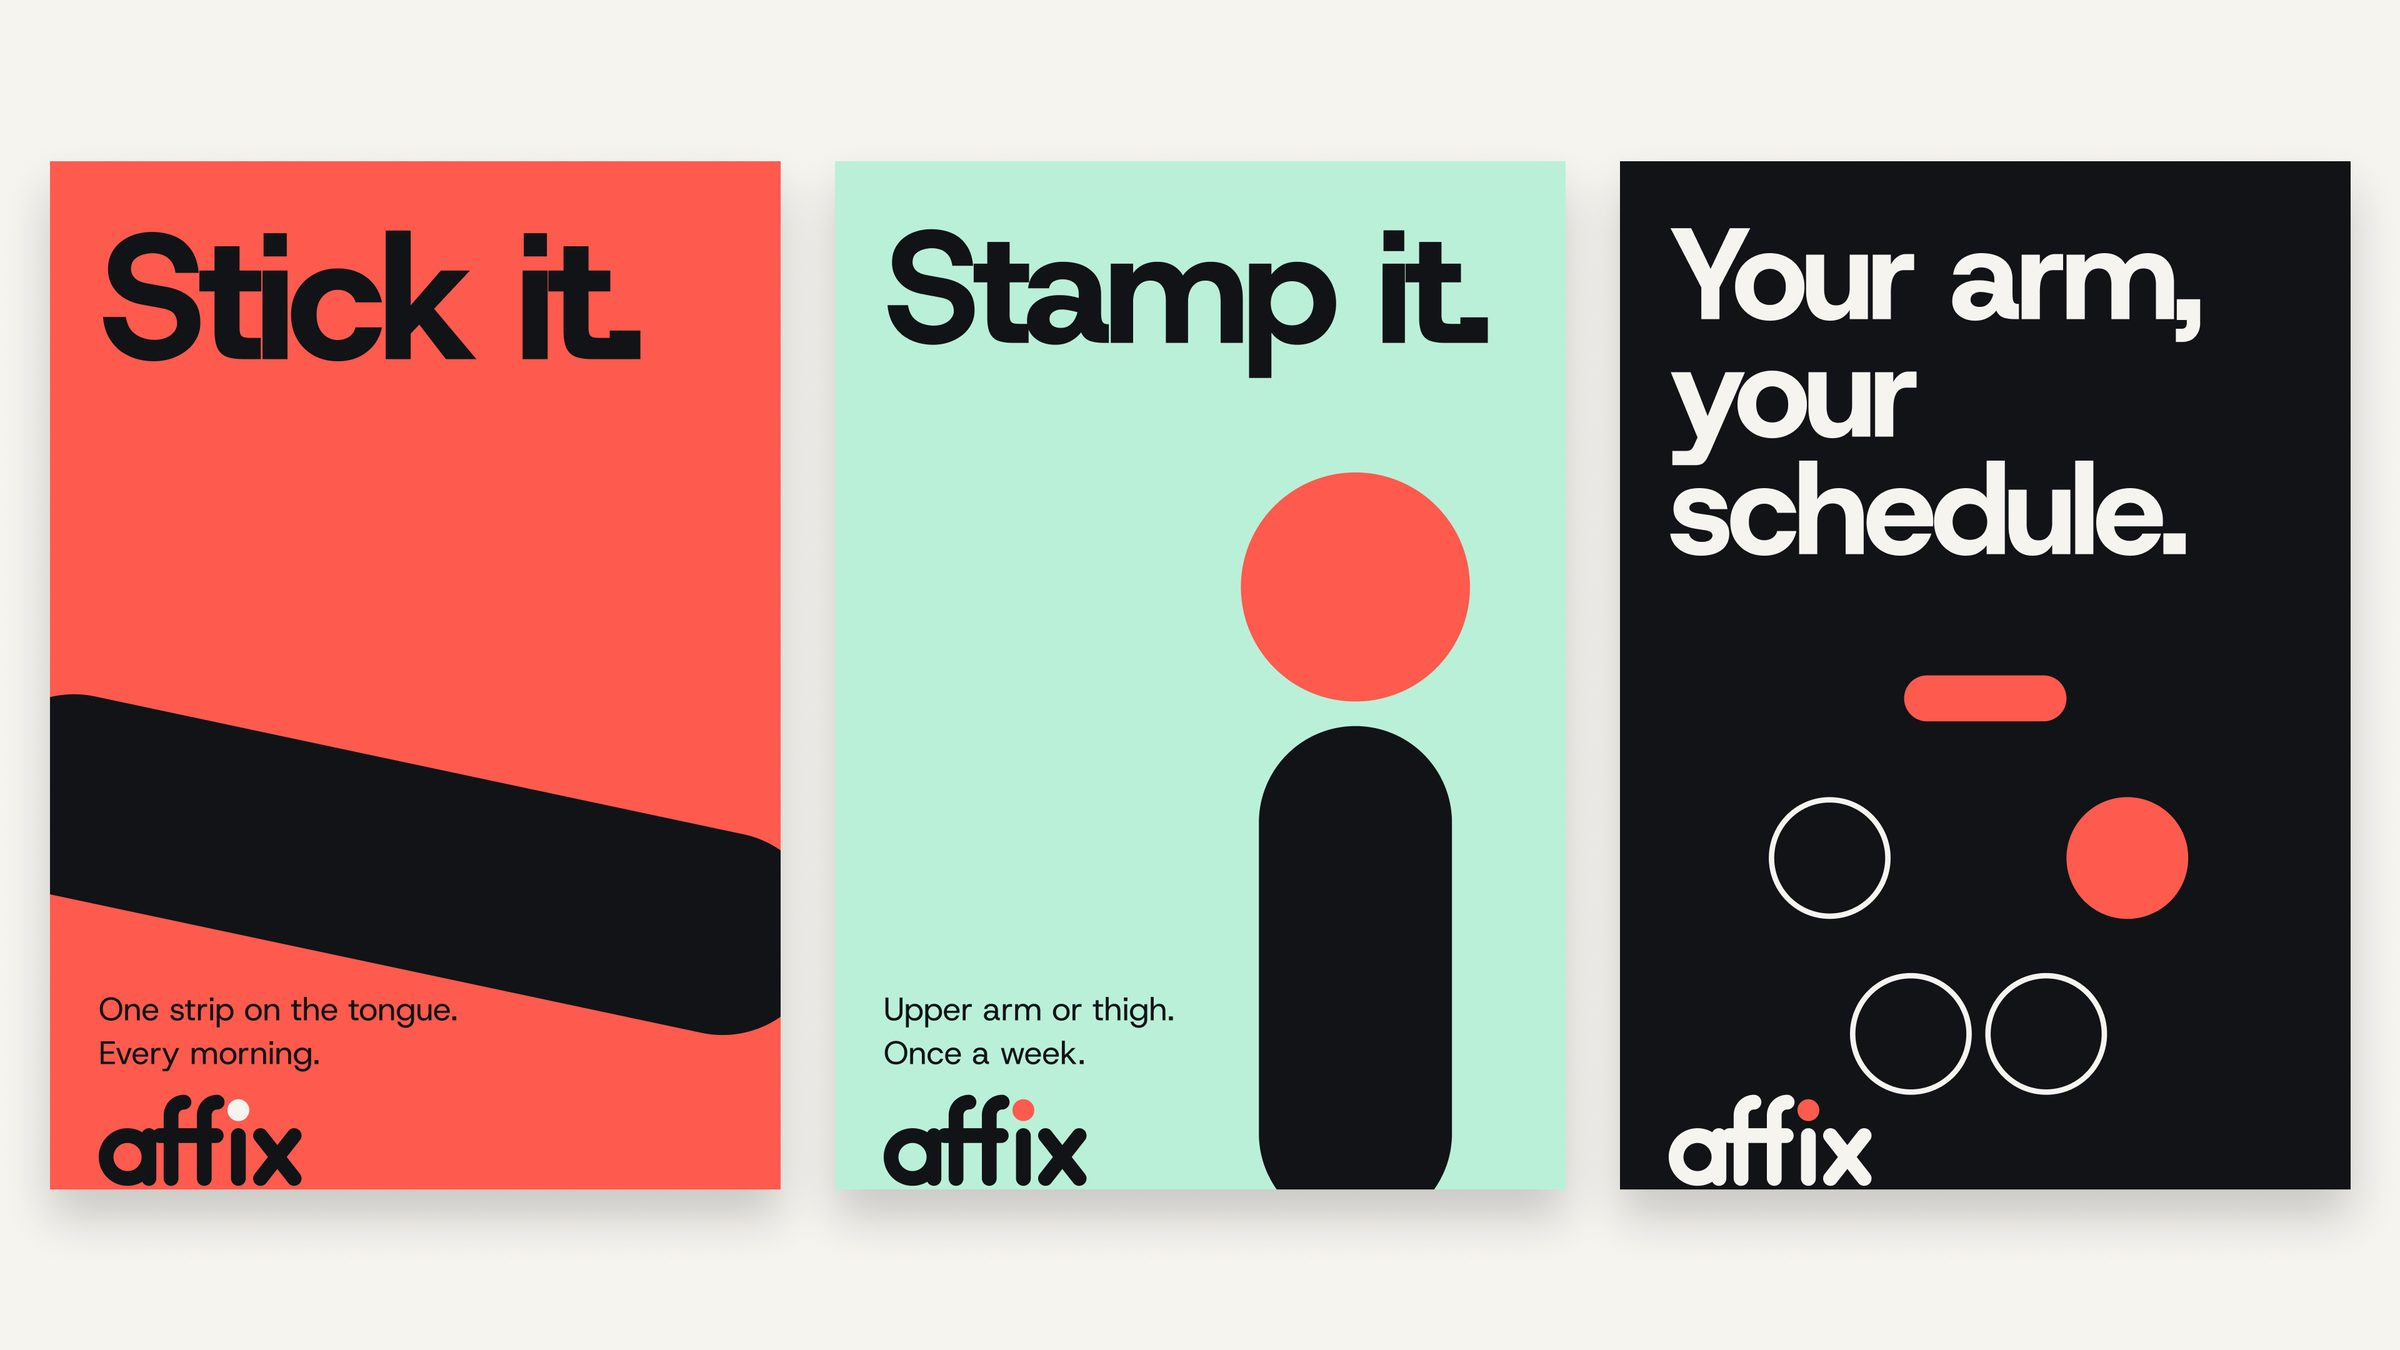
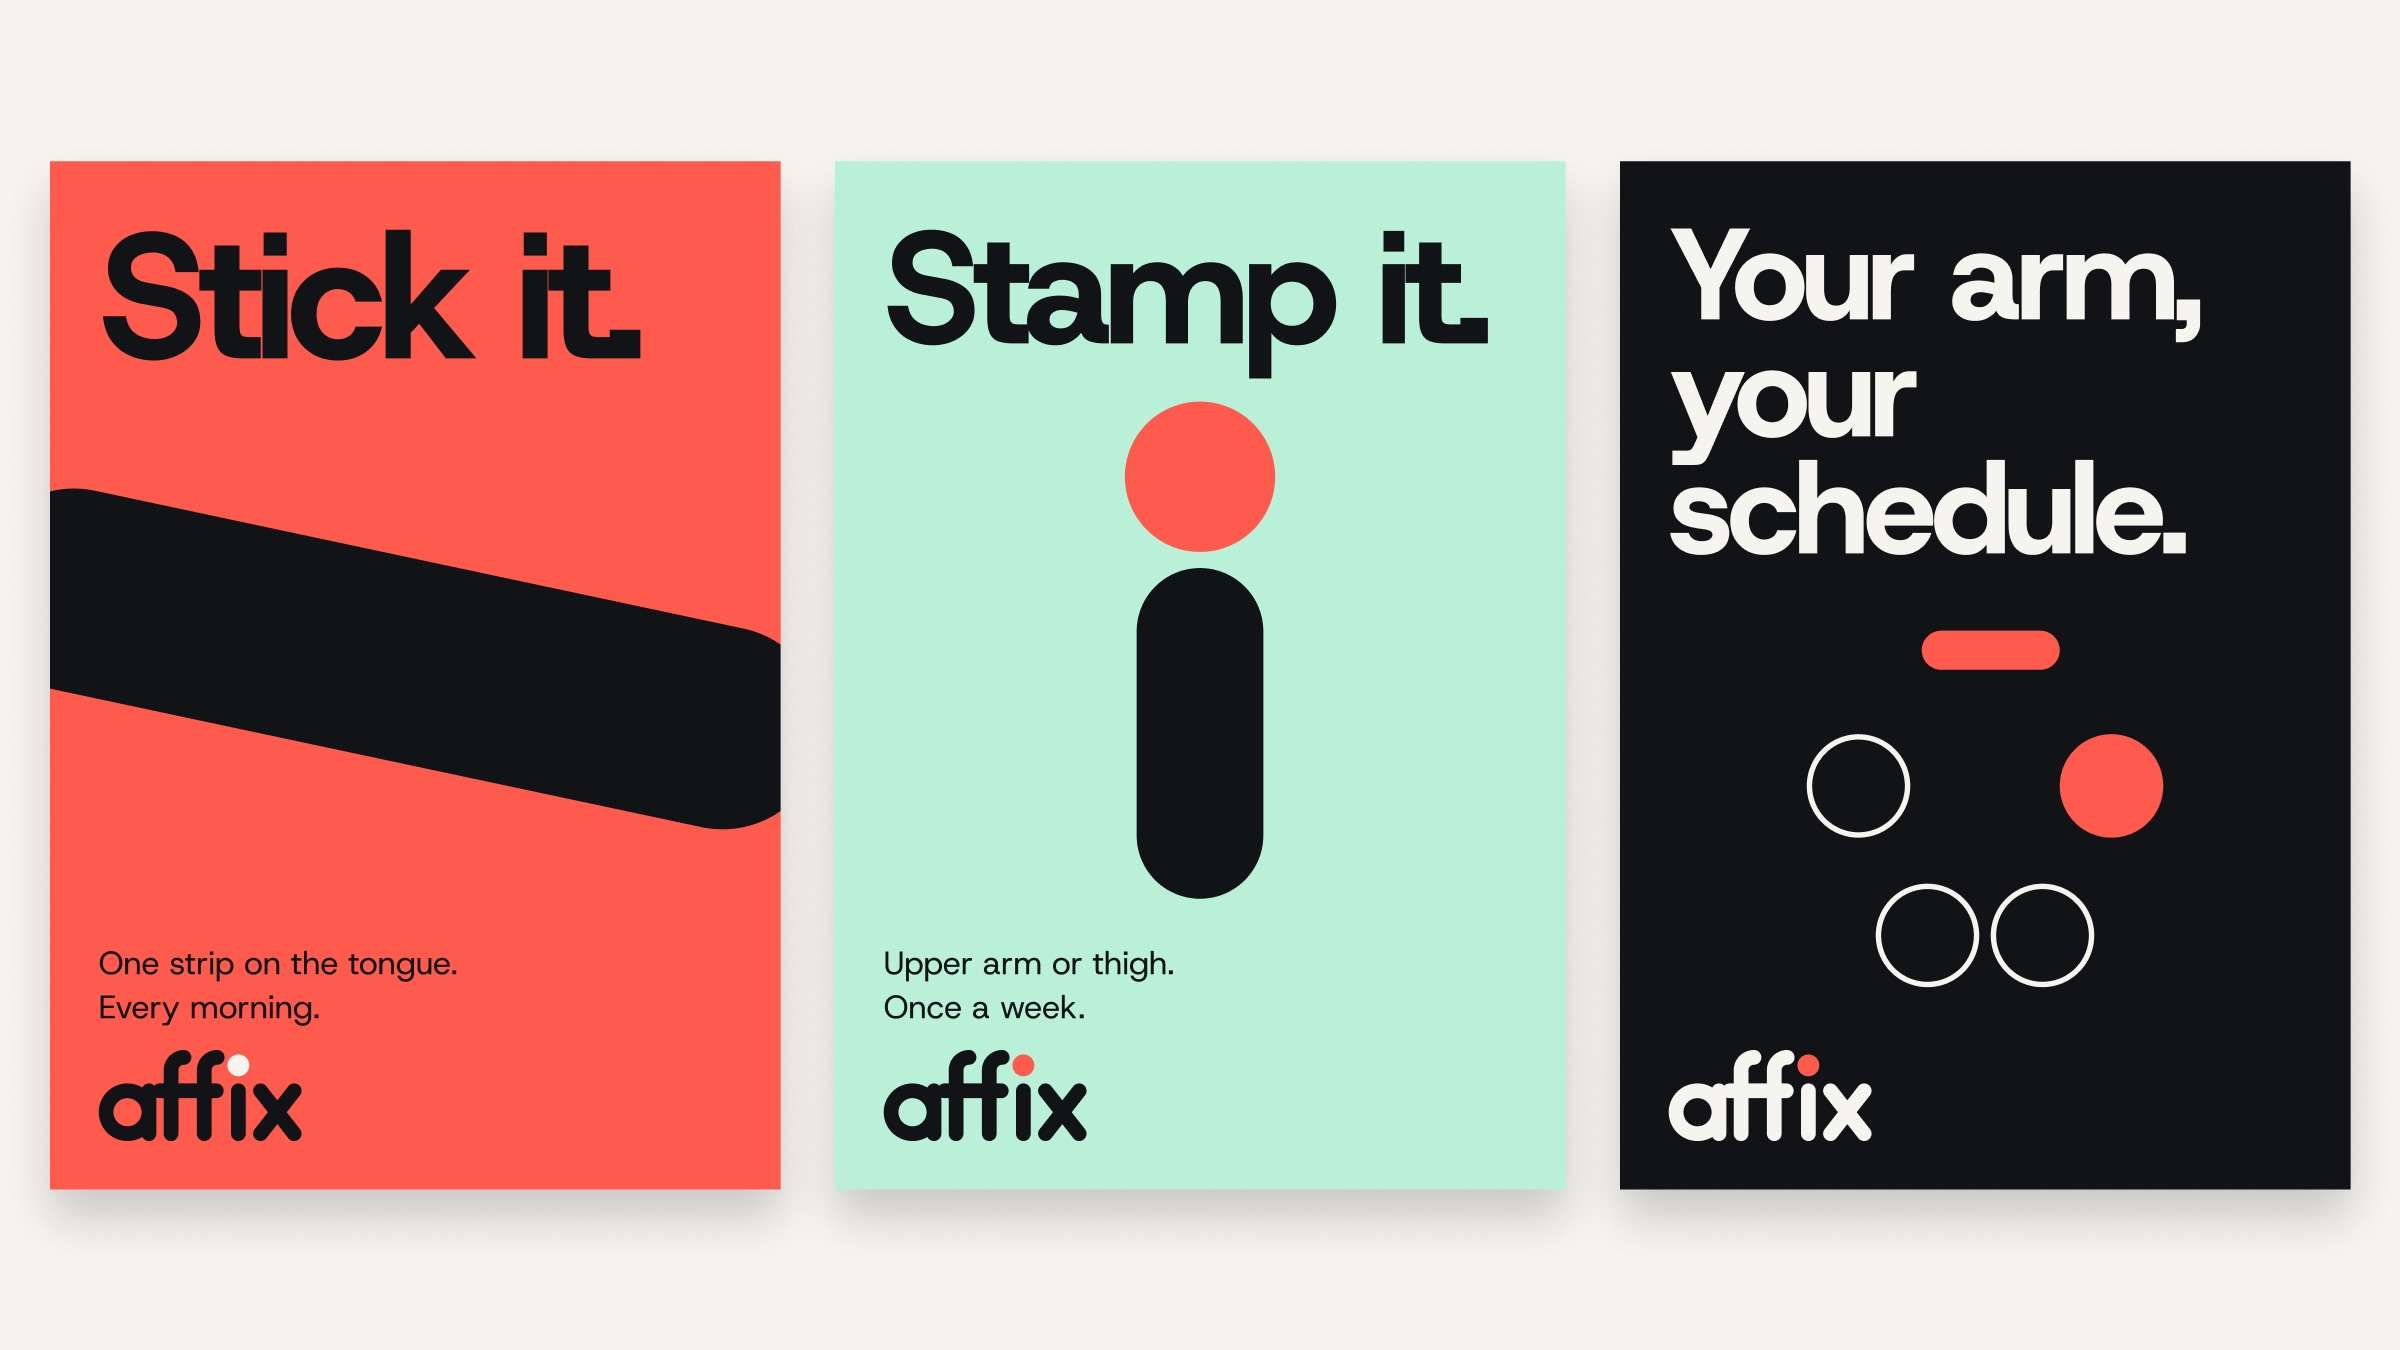
Affix posters spread: wordmark raised to a 39px margin, graphics centered in each poster

diff --git a/affix.html b/affix.html
@@ -49,7 +49,7 @@
     <img class="shot" src="img/affix-16.jpg" alt="Affix" loading="lazy" width="2400" height="1350">
     <img class="shot" src="img/affix-17.jpg" alt="Affix" loading="lazy" width="2400" height="1350">
     <img class="shot" src="img/affix-18.jpg" alt="Affix" loading="lazy" width="2400" height="1350">
-    <img class="shot" src="img/affix-19.jpg" alt="Affix" loading="lazy" width="2400" height="1350">
+    <img class="shot" src="img/affix-19.jpg?v=20261113e" alt="Affix" loading="lazy" width="2400" height="1350">
     <img class="shot" src="img/affix-20.jpg" alt="Affix" loading="lazy" width="2400" height="1350">
     <img class="shot" src="img/affix-21.jpg" alt="Affix" loading="lazy" width="2400" height="1350">
     <img class="shot" src="img/affix-22.jpg" alt="Affix" loading="lazy" width="2400" height="1350">
